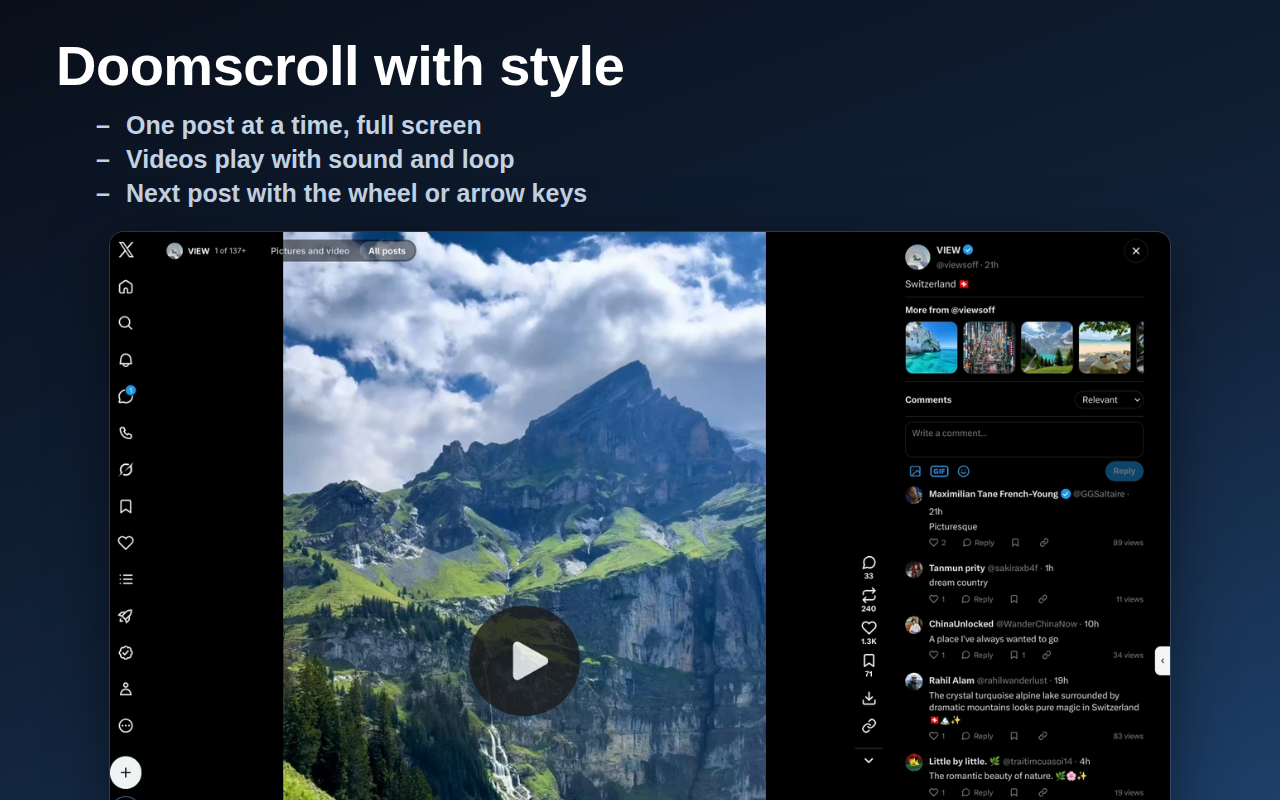
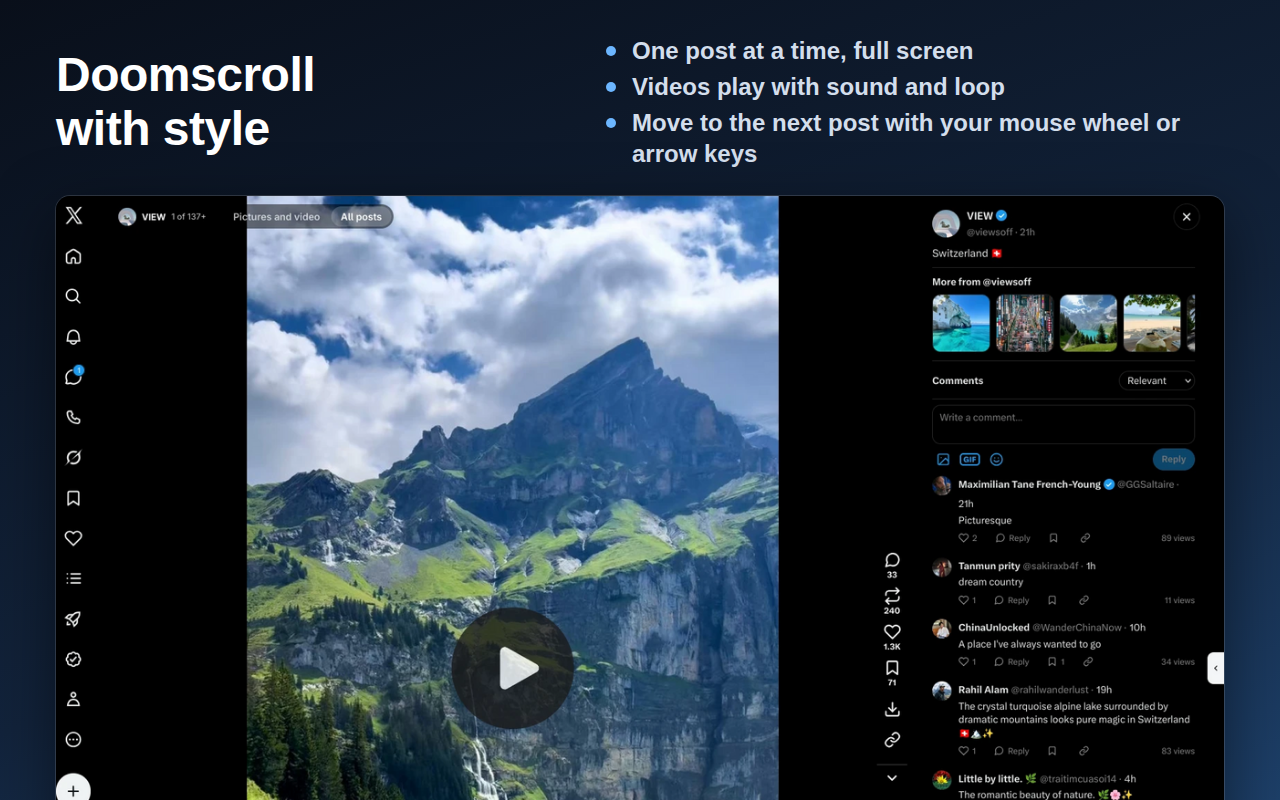
Store: seven slides in a fuller layout (headline left, lines right, larger screen); the reply slide is gone; name is "Multi-Column for X (Twitter)"
Claude-Session: https://claude.ai/code/session_018kEDBPkK9jgvVfS9DEM5ks

diff --git a/store/make-slides.js b/store/make-slides.js
@@ -1,5 +1,5 @@
 'use strict';
-// Turns the plain screenshots into headline slides for the Firefox Add-ons page: a short headline, a few plain outcomes, and the
+// Turns the plain screenshots into headline slides for the Firefox Add-ons page: a short headline, a few plain lines beside it, and the
 // screen below it running off the bottom edge. (The page's own thumbnails are small; a headline says what to look at.)
 //   XMC_BROWSER=/path/to/chrome node store/make-slides.js        ->  store/screenshots/slides/01-columns.png ... 10-start.png (1280x800)
 // Run `node store/make-screenshots.js` first. To use a shot of your own, save it as store/screenshots/own/<same name>.png (e.g. own/01-columns.png)
@@ -14,27 +14,29 @@ const OUT = path.join(DIR, 'slides');
 // feed: true marks a shot of the feed itself. The stand-in feed is invented posts on generated art; a real one from X is better there,
 // so these are the ones to replace (own/<same name>.png). The wording is plain on purpose: the people reading it want a good extension, not an explanation.
 const SLIDES = [
-  { file: '01-columns', feed: true, title: 'Your feed in columns', bullets: ['See far more at once', 'Fits your screen, big or small', 'Hide Trending, Who to follow and Premium'] },
-  { file: '08-reels', title: 'Doomscroll with style', bullets: ['One post at a time, full screen', 'Videos play with sound and loop', 'Next post with the wheel or arrow keys'] },
-  { file: '02-post-panel', title: 'Open a post without losing your place', bullets: ['Pictures and comments side by side', 'Like, bookmark and reply right there', 'Close it and you\u2019re back where you were'] },
-  { file: '09-reply-tools', title: 'Reply with pictures and emoji', bullets: ['Add pictures, GIFs and emoji', 'Reply to the post or to any comment'] },
-  { file: '11-media-wall', title: 'Every picture, in a gallery', bullets: ['Photos and videos in rows, edge to edge', 'Switch between Columns and Gallery any time', 'Open a post, or start Reels from any picture'] },
-  { file: '10-keys', title: 'Browse with your keyboard', bullets: ['Scroll, like and open posts without the mouse', 'Pick a ready-made set of keys', 'Change any key you like'] },
-  { file: '13-themes', title: 'Fourteen colour themes', bullets: ['Catppuccin, Gruvbox, Ros\u00e9 Pine, Dracula, Nord and more', 'Dark or light, to suit you', 'Or keep X\u2019s own colours'] },
-  { file: '03-photo-viewer', title: 'Photos and video, done properly', bullets: ['Open photos big, with Download and Copy link', 'Save full-size photos and the best video in one click', 'Hover over a video for a quiet preview'] },
+  { file: '01-columns', feed: true, title: 'Your feed in columns', bullets: ['See far more at once, using your whole screen', 'Automatically fits your screen - big or small', 'Hide Trending, Who to follow and Premium boxes'] },
+  { file: '08-reels', title: 'Doomscroll with style', bullets: ['One post at a time, full screen', 'Videos play with sound and loop', 'Move to the next post with your mouse wheel or arrow keys'] },
+  { file: '02-post-panel', title: 'Open a post without losing your place', bullets: ['Pictures and comments side by side', 'Like, bookmark and reply, even to comments', 'Close it and you\u2019re back exactly where you were'] },
+  { file: '11-media-wall', title: 'Every picture, in a gallery', bullets: ['Every photo and video in rows, edge to edge', 'Switch between Columns and Gallery any time', 'Open a post, or start Reels from any picture'] },
+  { file: '10-keys', title: 'Browse with your keyboard', bullets: ['Scroll, like and open posts without the mouse', 'Choose a ready-made set of keys, or use none', 'Change any key to whatever you like'] },
+  { file: '13-themes', title: 'Fourteen colour themes', bullets: ['Catppuccin, Gruvbox, Ros\u00e9 Pine, Dracula, Tokyo Night, Nord and more', 'Dark or light, whichever suits you', 'Or keep X\u2019s own colours'] },
+  { file: '03-photo-viewer', title: 'Photos and video, done properly', bullets: ['Open photos and videos big, with dedicated Download and Copy Link buttons', 'Full-size photos and the best video, one click', 'Hover over a video for a quiet preview'] },
 ];
 
-// the slide colours ("Ink" on the wording page): near-black blue running up to a mid navy, white headline, a paler tint for the lines under it
-const PALETTE = { from: '#090f1a', mid: '#12233b', to: '#1d3f68', head: '#ffffff', text: '#c3d2e3', edge: 'rgba(255,255,255,.14)' };
+// the slide colours: near-black blue running up to a mid navy, white headline, a paler tint for the lines beside it, a light blue for the dots
+const PALETTE = { from: '#090f1a', mid: '#12233b', to: '#1d3f68', head: '#ffffff', text: '#d3deec', dot: '#6cb6ff', edge: 'rgba(255,255,255,.14)' };
 
+// the headline on the left, the lines on the right, the screen as large as the width allows, running off the bottom edge
 const html = (title, bullets, img) => `<!doctype html><meta charset="utf-8"><style>
   *{box-sizing:border-box;margin:0}
   body{width:1280px;height:800px;overflow:hidden;font-family:'Liberation Sans',Arial,sans-serif;color:${PALETTE.head};background:linear-gradient(160deg,${PALETTE.from} 0%,${PALETTE.mid} 58%,${PALETTE.to} 100%);position:relative}
-  h1{position:absolute;left:56px;top:34px;font-size:56px;line-height:64px;font-weight:700;letter-spacing:-0.5px}
-  ul{position:absolute;left:56px;top:108px;list-style:none;font-size:25px;line-height:34px;font-weight:700;color:${PALETTE.text}}
-  li:before{content:'–';display:inline-block;width:30px}
-  .shot{position:absolute;left:50%;top:${bullets.length > 2 ? 232 : 198}px;width:1060px;transform:translateX(-50%);border-radius:14px 14px 0 0;box-shadow:0 0 0 1px ${PALETTE.edge},0 18px 60px rgba(0,0,0,.5);display:block}
-</style><h1>${title}</h1><ul>${bullets.map((b) => `<li>${b}</li>`).join('')}</ul><img class="shot" src="${img}">`;
+  .head{position:absolute;left:56px;right:56px;top:26px;height:152px;display:flex;align-items:center;gap:40px}
+  h1{flex:0 0 470px;text-wrap:balance;font-size:48px;line-height:54px;font-weight:700;letter-spacing:-0.5px}
+  ul{flex:1;list-style:none;font-size:24px;line-height:31px;font-weight:700;color:${PALETTE.text}}
+  li{position:relative;padding-left:26px;margin:5px 0}
+  li:before{content:'';position:absolute;left:0;top:11px;width:10px;height:10px;border-radius:50%;background:${PALETTE.dot}}
+  .shot{position:absolute;left:56px;top:196px;width:1168px;border-radius:14px 14px 0 0;box-shadow:0 0 0 1px ${PALETTE.edge},0 18px 60px rgba(0,0,0,.5);display:block}
+</style><div class="head"><h1>${title}</h1><ul>${bullets.map((b) => `<li>${b}</li>`).join('')}</ul></div><img class="shot" src="${img}">`;
 
 (async () => {
   fs.mkdirSync(OUT, { recursive: true });

diff --git a/store/listing.md b/store/listing.md
@@ -1,7 +1,7 @@
 # Add-on listing (addons.mozilla.org): copy and paste from here
 
-**Name:** Multi-Column for X
-(Option: "Multi-Column for X (Twitter)". Many people still search for "Twitter", and the add-on this listing is modelled on keeps the word in its name. Your call on the name.)
+**Name:** Multi-Column for X (Twitter)
+(The owner's choice: many people still search for "Twitter". The listing is at https://addons.mozilla.org/en-US/firefox/addon/multi-column-for-x/ and the owner looks after it. `manifest.json` still says "Multi-Column for X".)
 
 
 **Summary (max 250 characters):**
@@ -13,7 +13,6 @@ Multi-Column for X makes X (Twitter) feel the way it always should have. Your fe
 **Why you'll like it**
 - **Columns that fit your screen.** See far more at once, from one column to eight. New posts wait behind a button instead of shoving your feed down while you read.
 - **Open a post without losing your place.** The picture sits big next to the comments. Like, bookmark, reply and translate right there, then close it and you're back where you were.
-- **Reply with pictures, GIFs and emoji**, to the post or to any comment.
 - **Reels, if you want them.** One post at a time, full screen, like TikTok. Videos play with sound and loop, and posts you've already seen are skipped.
 - **Photo galleries.** A profile's Media tab as a wall of pictures, edge to edge.
 - **Save in one click.** Full-size photos and the best-quality video, into the folder you choose.
@@ -38,17 +37,16 @@ No tracking, no accounts, no data collected. Everything stays in your browser. O
 X and Twitter are trademarks of X Corp. This add-on is not affiliated with, endorsed by, or sponsored by X Corp.
 
 **Release notes (current version):**
-Your X feed in columns, posts that open beside their comments, replies with pictures, GIFs and emoji, Reels, a gallery for photos, one-click downloads, keyboard keys, fourteen colour themes and a welcome page to set it all up.
+Your X feed in columns, posts that open beside their comments, Reels, a gallery for photos, one-click downloads, keyboard keys, fourteen colour themes and a welcome page to set it all up.
 
-**Screenshots** (upload the headline slides in `store/screenshots/slides/`, in this order; `node store/make-screenshots.js` then `node store/make-slides.js` makes them: 1280x800. All eight are real shots of X (public posts; the owner's own profile at the foot of X's menu is blurred out: `store/own-shots.json` names the sources, the blurred places and the cut, `node store/prepare-own.js <folder>` makes `store/screenshots/own/*.png`, and `make-slides.js` uses those in place of the generated shot of the same name; a slide with no entry there falls back to a generated shot with invented accounts and posts). The plain shots are in `store/screenshots/` if you want any without a headline; the wording is in `SLIDES` in `store/make-slides.js`):
+**Screenshots** (upload the headline slides in `store/screenshots/slides/`, in this order; `node store/make-screenshots.js` then `node store/make-slides.js` makes them: 1280x800. All seven are real shots of X (public posts; the owner's own profile at the foot of X's menu is blurred out: `store/own-shots.json` names the sources, the blurred places and the cut, `node store/prepare-own.js <folder>` makes `store/screenshots/own/*.png`, and `make-slides.js` uses those in place of the generated shot of the same name; a slide with no entry there falls back to a generated shot with invented accounts and posts). The plain shots are in `store/screenshots/` if you want any without a headline; the wording is in `SLIDES` in `store/make-slides.js`. The Chrome Web Store takes five: use 1, 2, 3, 4 and 7):
 1. `01-columns.png` Your feed in columns.
 2. `02-reels.png` Doomscroll with style: one post at a time, with the rail of buttons on the picture.
 3. `03-post-panel.png` Open a post without losing your place.
-4. `04-reply-tools.png` Reply with pictures and emoji, from the comment box in the panel.
-5. `05-media-wall.png` Media tabs as a gallery.
-6. `06-keys.png` Browse with your keyboard.
-7. `07-themes.png` Fourteen colour themes (three of them side by side: cats, paintings and a light one).
-8. `08-photo-viewer.png` Photos and video, done properly: the viewer with Download and Copy link.
+4. `04-media-wall.png` Every picture, in a gallery.
+5. `05-keys.png` Browse with your keyboard.
+6. `06-themes.png` Fourteen colour themes (three of them side by side: cats, paintings and a light one).
+7. `07-photo-viewer.png` Photos and video, done properly: the viewer with Download and Copy link.
 (Not in the slides, still in `store/screenshots/`: the filters, the room, the starting points (the welcome page), the settings page and the settings in a panel.)
 
 **Support link ("Support" / contributions field):** https://ko-fi.com/falsehamartia
@@ -85,6 +83,6 @@ Everything user-visible in the options page is generated from `src/settings.js`.
 
 `popup.html` is the toolbar button's panel (the same generator as the options page, in a narrow layout). It and the files it loads are listed in `web_accessible_resources` for x.com and twitter.com only, because the gear in the columns' bar shows it in a frame over the page; it grants x.com's own scripts nothing but the ability to load those pages (they hold no secrets: the settings live in `storage.local`, which only the extension can read). If the frame does not load, the options page opens in a tab instead. The framed page tells its parent two things ("settings-ready", "settings-close") with `postMessage` to `*`: the messages hold no data, and the receiving side accepts them only from that frame's own window. Every `message` listener in the extension checks `event.source`. The tip shown on first run has one link, to the Ko-fi page, opened in a new tab only when pressed.
 
-**Screenshots:** `store/screenshots/slides/` (made by `node store/make-screenshots.js` then `node store/make-slides.js`; the first needs ImageMagick and the dev dependencies). They use the test stand-in for x.com with invented people and generated pictures, so no real post, name or logo is shown. To add one of your own feed, take it with the window about 1600x1000, public posts only, blur your own name, and size it with `store/frame-screenshots.sh`.
+**Screenshots:** `store/screenshots/slides/` (made by `node store/make-screenshots.js` then `node store/make-slides.js`; the first needs ImageMagick and the dev dependencies). The seven headline slides are screenshots of public posts on x.com with the extension running (the owner's own profile blurred out); the plain shots in `store/screenshots/` come from the test stand-in for x.com, with invented people and generated pictures.
 
 **Icon:** store/icon-128.png (the extension itself ships icons/icon.svg).

diff --git a/CLAUDE.md b/CLAUDE.md
@@ -1,6 +1,6 @@
 # Multi-Column for X: notes for whoever (or whatever) works on this next
 
-Firefox/Zen MV3 extension (and, from 0.31.0, a Chrome/Edge package from the same files) that shows X/Twitter in masonry columns. Public repo, MIT. Ask the owner where the addons.mozilla.org listing stands before saying anything about it (`main` on GitHub was last at 0.10.0; the work is on `fix-duplicate-instance`, which fast-forwards onto it).
+Firefox/Zen MV3 extension (and, from 0.31.0, a Chrome/Edge package from the same files) that shows X/Twitter in masonry columns. Public repo, MIT. The add-on is listed on addons.mozilla.org (https://addons.mozilla.org/en-US/firefox/addon/multi-column-for-x/, named "Multi-Column for X (Twitter)"); the owner handles the listing and its submissions himself, so do not submit or change anything there (`main` on GitHub was last at 0.10.0; the work is on `fix-duplicate-instance`, which fast-forwards onto it).
 The owner uses Zen on Linux with a ~3400px-wide screen and Vimium. Nobody working here can log in to X: nothing is verified against real X, only against the stand-in x.com in `test/e2e/mock/`. Say so when you report, and ask for "Copy diagnostics" output (the ⚠ button in the top bar, or a post's ... menu) when something fails on real X.
 
 ## Run it

diff --git a/store/SUBMIT.md b/store/SUBMIT.md
@@ -35,7 +35,7 @@ Note: an unlisted add-on does not update itself. After the public listing is app
    homepage, support site (the GitHub issues page), privacy policy (paste the text of `PRIVACY.md`), notes to reviewer.
 5. Support / contributions link: your Ko-fi, https://ko-fi.com/falsehamartia
    (if the field refuses it, tell me; it only accepts certain donation sites).
-6. Icon: `store/icon-128.png`. Screenshots: `store/screenshots/slides/01-…06-` (see `store/listing.md`;
+6. Icon: `store/icon-128.png`. Screenshots: `store/screenshots/slides/01-…07-` (see `store/listing.md`;
    regenerate with `node store/make-screenshots.js` then `node store/make-slides.js`).
 7. Submit. Automatic checks run first; a person usually reads the notes for add-ons that run on a big site like x.com, so
    it can take from a few days to a couple of weeks. Replies come by email: answer them in the Developer Hub thread.

diff --git a/store/release-notes.md b/store/release-notes.md
@@ -5,7 +5,7 @@ Short, for the box on the upload page; the full history is CHANGELOG.md.
 **First public upload (written at 0.48.7; use the version number you upload):**
 - Your X feed in columns on Home, Search, Lists, Bookmarks and profiles. New posts wait behind a button; nothing jumps.
 - A welcome page that sets it up in a minute: how to start, which keys, which colours.
-- Posts open beside their comments. Like, bookmark, reply (with pictures, GIFs and emoji) and translate, then close it and you're back where you were.
+- Posts open beside their comments. Like, bookmark, reply and translate, then close it and you're back where you were.
 - Reels: one post at a time, full screen.
 - Keyboard keys, or none, and you can change any of them.
 - A gallery for photos, followers as a grid, search on Likes.
